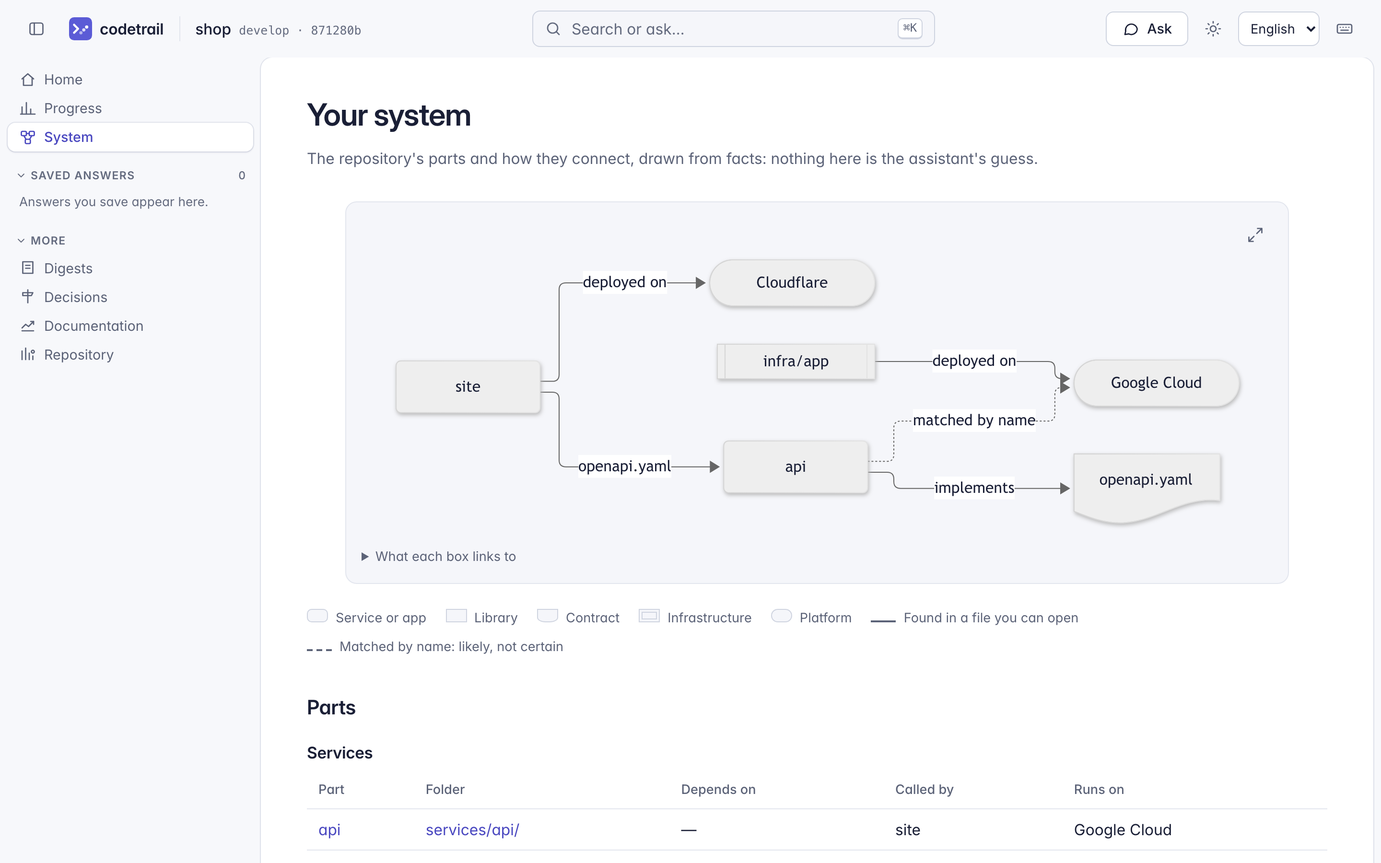
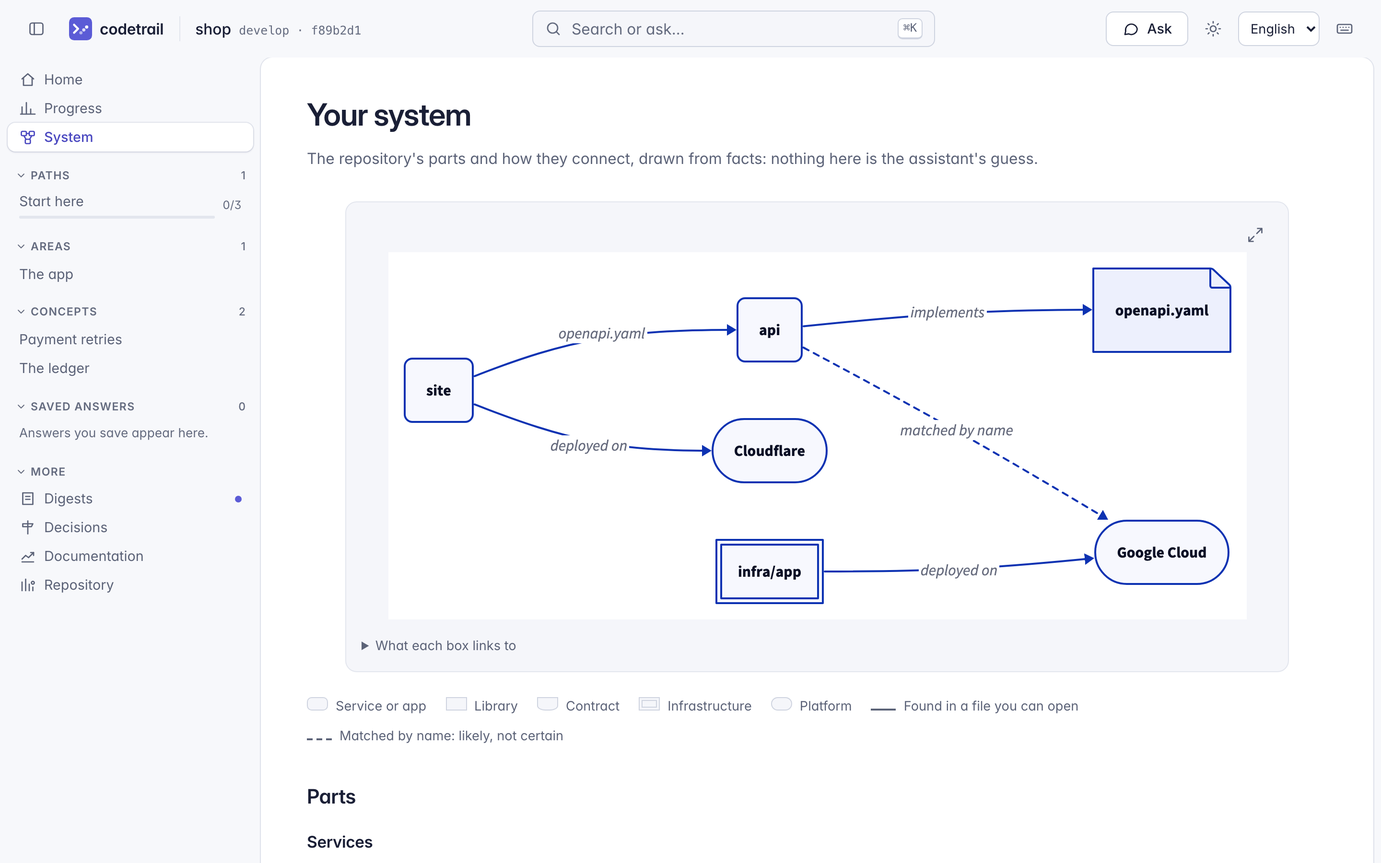
docs(docs): describe D2 in the design, checklist and README, and retake the system shot
What: the design (sections 4.4, 7.1, 7.4, 12, 16.5 and 17.4, and the
test plan) describes diagrams written in D2 and drawn in the worker
with its own policy, and the page's policy without inline styles;
brainstorm decision 9 points to ADR 0016; the security checklist's
Rendering item covers D2 labels, generated keys and the worker's
policy; the README's acknowledgement names D2 alone; the changelog
says every diagram changed, under Changed and Security; ADR 0016's
changes required are all ticked; the README's System page screenshot
is retaken from the small example repository, with the D2 drawing.

Why: ADR 0016, accepted, requires these changes, and the founder
asked for the diagrams, READMEs and docs to be finished.

Alternatives considered: leaving decision 9's text as written (it
records the brainstorm; a pointer keeps the record and the current
choice); keeping the old screenshot (it showed Mermaid's drawing).

Risks: none; documentation only. The checklist change is a rule the
security review reads from origin/develop once pushed.

Agent and model: Claude Code, Claude Opus 5.5 (claude-opus-5-5)

diff --git a/docs/design/2026-10-05-codetrail-design.md b/docs/design/2026-10-05-codetrail-design.md
@@ -209,7 +209,7 @@ checks: [...]                         # section 8.2
 At large scale, an index from facts to pages in SQLite, rebuilt from front matter, would replace scanning the pages; it isn't built until a target needs it.
 
 ### 4.4 Diagrams
-A diagram is a named query over facts within a scope (for example the imports inside `services/api/app`, or the infrastructure resources and their references), rendered to Mermaid text by Codetrail. Above a node limit in configuration it rolls up to directories or packages, with counts on the edges, and links to drill down. Every node and edge links to its fact. Claude never writes Mermaid. The Mermaid Codetrail writes always parses: labels are escaped, a blank label falls back to the fact's path, and an arrow is labelled only when it has a label (a browser test parses every diagram kind, with hostile names, through the vendored Mermaid). A diagram that would draw nothing is refused when a page is checked and left out when a page is shown.
+A diagram is a named query over facts within a scope (for example the imports inside `services/api/app`, or the infrastructure resources and their references), rendered to D2 text by Codetrail ([ADR 0016](../adr/0016-draw-diagrams-with-d2.md)). Above a node limit in configuration it rolls up to directories or packages, with counts on the edges, and links to drill down. Every node and edge links to its fact. Claude never writes diagram code. The D2 Codetrail writes always compiles: node ids are generated (`n1`, `n2`, …), never built from names, labels are D2 double-quoted strings with `\`, `"` and `$` escaped and line breaks dropped, a blank label falls back to the fact's path, and an arrow is labelled only when it has a label. The page draws it with D2's WebAssembly build in a worker of its own and shows it as an image (section 7.4); a browser test draws every diagram kind, with hostile names, through that worker and checks every label comes back as written. A diagram that would draw nothing is refused when a page is checked and left out when a page is shown.
 
 ### 4.5 Not facts
 Commit history (read through `repo` for each update's range) and document bodies (ADRs, READMEs, design documents, which Claude reads when needed). An ADR's metadata (number, title, status, supersedes, path) is a fact, so documented rationale can link to it.
@@ -329,7 +329,7 @@ Every draft carries the call's `Usage`. Each provider's adapter is the only code
 ## 7. The page and the bridge
 
 ### 7.1 The page
-Server-rendered with FastAPI and Jinja2, served by uvicorn; Markdown rendered on the server by markdown-it-py with raw HTML disabled; front matter read with PyYAML's `safe_load`; Mermaid vendored at a pinned version ([ADR 0004](../adr/0004-server-rendered-page-stack.md)). A few plain JavaScript modules handle streamed answers, Mermaid, the update dialog, search, shortcuts and the Ask panel (section 16.5); there are no inline scripts.
+Server-rendered with FastAPI and Jinja2, served by uvicorn; Markdown rendered on the server by markdown-it-py with raw HTML disabled; front matter read with PyYAML's `safe_load` ([ADR 0004](../adr/0004-server-rendered-page-stack.md)); D2's WebAssembly build vendored at a pinned version and run in a worker ([ADR 0016](../adr/0016-draw-diagrams-with-d2.md)). A few plain JavaScript modules handle streamed answers, diagrams, the update dialog, search, shortcuts and the Ask panel (section 16.5); there are no inline scripts.
 
 | Route | Shows or does |
 |---|---|
@@ -369,7 +369,7 @@ Server-rendered with FastAPI and Jinja2, served by uvicorn; Markdown rendered on
 | Another local web server receiving the session cookie | Browsers send a cookie to every port of a host (RFC 6265), so a server on another 127.0.0.1 port that the reader visits receives it. The session ends after `server.session_minutes` (480 by default) and when `serve` stops. Such a server could also start paid work: an update or a question. That is bounded: an update has a total budget (`generation.max_budget_usd_per_update`), updates from the page wait `server.update_cooldown_seconds` after the last one, one question runs at a time with its own budget, and grading runs one at a time, `learn.grading_cooldown_seconds` apart, with a budget of `learn.max_budget_usd` per answer. Accepted on that basis; revisit with a unique `*.localhost` host name if it proves insufficient. |
 | Other websites reading or driving the page | `serve` opens the browser at `/login?code=…`; the code is single-use and expires after `server.login_code_ttl_seconds`. It is exchanged for an `HttpOnly`, `SameSite=Strict` session cookie and removed from the URL. Every route except `/login` requires the session. Sessions live in memory and end when `serve` stops. |
 | Cross-site request forgery | Every `POST` needs an `Origin` equal to the served origin and an `X-Codetrail-Token` header matching the per-session token, which the page reads from a `<meta>` tag. Tokens come from `secrets.token_urlsafe(32)`. |
-| Script injection through repository content or Claude's output | Jinja2 autoescaping; Markdown with raw HTML disabled; only `http(s)` and relative links (markdown-it-py's link validation drops `javascript:`, `data:` and others); Mermaid labels escaped and Mermaid's `securityLevel: "strict"`; a CSP of `default-src 'self'; script-src 'self'; style-src 'self' 'unsafe-inline'; img-src 'self' data:; connect-src 'self'; frame-ancestors 'none'; base-uri 'none'; form-action 'self'` (inline styles only because Mermaid injects `<style>` into its SVGs); `X-Content-Type-Options: nosniff`, `Referrer-Policy: no-referrer`, `X-Frame-Options: DENY`, `Cross-Origin-Resource-Policy: same-origin`; and `Cache-Control: no-store` on every response outside `/static/`, refusals included, unless its route sets its own, so the write token in each page's `<meta>` tag and the guide's content never stay in the browser's disk cache (ASVS v5.0.0 14.3.2). Static files keep `no-cache` (section 16.5). |
+| Script injection through repository content or Claude's output | Jinja2 autoescaping; Markdown with raw HTML disabled; only `http(s)` and relative links (markdown-it-py's link validation drops `javascript:`, `data:` and others); D2 labels written as escaped double-quoted strings, and D2 keys always generated ids; a CSP of `default-src 'self'; script-src 'self'; style-src 'self'; img-src 'self' data:; connect-src 'self'; frame-ancestors 'none'; base-uri 'none'; form-action 'self'`, with no inline styles or scripts; D2's worker (`/static/js/d2-worker.js`) alone gets its own CSP, `default-src 'none'; script-src <its loader's URL> 'unsafe-eval' 'wasm-unsafe-eval'; connect-src <the wasm file's URL>`, at the `Host` already checked, because D2's layout evaluates JavaScript: it has no DOM and no network but its wasm file, and the page shows what it returns only as an `<img>`, where an SVG can't run script or follow links; `X-Content-Type-Options: nosniff`, `Referrer-Policy: no-referrer`, `X-Frame-Options: DENY`, `Cross-Origin-Resource-Policy: same-origin`; and `Cache-Control: no-store` on every response outside `/static/`, refusals included, unless its route sets its own, so the write token in each page's `<meta>` tag and the guide's content never stay in the browser's disk cache (ASVS v5.0.0 14.3.2). Static files keep `no-cache` (section 16.5). |
 | Another site, or a server on another 127.0.0.1 port, timing or driving the page (for example probing search) | A request whose `Sec-Fetch-Site` is anything but `same-origin` or `none` (the address bar) is refused, on every route but `/static/`. |
 | Prompt injection through repository content | Claude has read-only tools over `source/` and no network; every `@` in a prompt becomes a fullwidth `＠`, because Claude Code attaches the file an `@path` names before any tool call (a probe proved it); documented rationale is verified; grading has no tools at all; output is rendered inertly as above. |
 | Running up cost | An estimate before every paid action, and from the page an update only with a fresh estimate id, as the reader's consent (section 15.4); the update budget, the update cooldown, one question in flight, `max_turns`, token limits for `codex` and `local`, and question length limits. |
@@ -545,7 +545,7 @@ Test first, always (decision 12). Suites in `tests/unit`, `tests/integration`, `
 - **Generation:** validation of documented quotes, fact links and diagram placeholders; the retry; the budget and ranking; all-or-nothing on interruption; affected and "sources changed" detection.
 - **The real adapters:** `claude_code` and `codex` run against fake programs (small scripts that replay recorded streams and record their arguments, environment and stdin); `local` runs against a fake endpoint (httpx's mock transport). Tests assert the read-only flags, the allowlisted environment (no key in subscription mode), stdin prompts, limits, stopping at a token limit, and usage parsing. An opt-in `just test-live` suite runs each installed provider on a fixture repository; CI skips it.
 - **Estimates:** medians from history, starting values, the update's expected and maximum, refusal of an update without a fresh estimate id, and the command line's question and `--yes`.
-- **API tests** (FastAPI's test client): every refusal in section 7.4 (wrong `Host`; missing or wrong `Origin`; no session; bad token; reused or expired login code; non-loopback configuration; unknown language or page id); the security headers on every response; `<script>`, `javascript:` links and hostile Mermaid labels rendered inert; streaming, cancellation and saving answers.
+- **API tests** (FastAPI's test client): every refusal in section 7.4 (wrong `Host`; missing or wrong `Origin`; no session; bad token; reused or expired login code; non-loopback configuration; unknown language or page id); the security headers on every response; `<script>`, `javascript:` links and hostile diagram labels rendered inert; the D2 worker's own policy, and no other path's; streaming, cancellation and saving answers.
 - **Learning:** every state transition, including *learned* → *stale* → *learned* through changed checks only; grading with pass, fail and a malformed verdict.
 - **Interface languages:** every catalog against English (keys, placeholders, plural forms); every catalog compiles, to the committed `.mo`; CI fails if the extracted template is out of date; `dir="rtl"` from the test catalog.
 - **End to end:** a fixture repository, `update` with the fake Claude, then the page through the test client: the behind signal, a page with its diagram, a graded check, and a source view refusing an excluded file.
@@ -557,13 +557,14 @@ Recipes: `just test-quick` (unit, API and the hooks' tests, in parallel, run by 
 
 | Dependency | Use | Covered by |
 |---|---|---|
-| Python, uv, FastAPI (with pydantic), SQLite, tree-sitter and its grammars, Mermaid | Core stack | Decision 9 |
+| Python, uv, FastAPI (with pydantic), SQLite, tree-sitter and its grammars | Core stack | Decision 9 |
 | httpx at runtime | The `local` provider's client | ADR 0006 |
 | Claude Code, Codex, Ollama or LM Studio, as the reader's own installed programs (not Python dependencies) | Assistant providers | ADR 0006 |
 | mise, just, lefthook, gitleaks (as a hook), git-flow-next, Node and pnpm for commitlint, ruff, mypy, pytest | Engineering setup | Decision 11 |
 | `pathspec` | Gitignore-style matching | ADR 0001 |
 | gitleaks at runtime | Content scanning on every update | ADR 0002 |
-| Jinja2, markdown-it-py, PyYAML, uvicorn; Mermaid vendored | The page and the guide's front matter | ADR 0004 |
+| Jinja2, markdown-it-py, PyYAML, uvicorn | The page and the guide's front matter | ADR 0004 |
+| D2: its WebAssembly build vendored, and the `d2` binary pinned in mise for the documentation's diagrams | Every diagram | ADR 0016 |
 | Babel (development only) | Extracting and compiling catalogs | ADR 0005; ADR 0013 (proposed) |
 | Inter, bundled as font files | The page's typeface | ADR 0007 |
 | Noto Sans Arabic, bundled as a font file | Arabic letters, which Inter lacks | ADR 0014 (proposed) |
@@ -753,7 +754,7 @@ Empty states invite rather than apologize ("Ask a question from any page and sav
 ### 16.5 Code layout
 - `templates/layout/`: the shell (`shell.html`, `header.html`, `sidebar.html`, `outline.html`, `ask_panel.html`, `palette.html`, `shortcuts.html`); every page template fills its content block. New pages: `progress.html`, `answers.html`, `search.html`.
 - `static/css/`: `tokens.css`, `base.css`, `layout.css`, `components.css`, `content.css` (guide pages, callouts, diagrams, code) and `print.css`, replacing `page.css`.
-- `static/js/`: plain ES modules, no bundler, loaded from `main.js` as `<script type="module">` (allowed by `script-src 'self'`): `api.js` (the token header, fetch), `ask.js`, `palette.js`, `shortcuts.js`, `update.js`, `learning.js`, `outline.js`, `theme.js`, `diagram.js`. They replace `page.js`, keeping its behaviour (streamed answers, grading, the estimate dialog, marking read, Mermaid).
+- `static/js/`: plain ES modules, no bundler, loaded from `main.js` as `<script type="module">` (allowed by `script-src 'self'`): `api.js` (the token header, fetch), `ask.js`, `palette.js`, `shortcuts.js`, `update.js`, `learning.js`, `outline.js`, `theme.js`, `diagram.js` and `d2.js`, which hands diagrams to the worker `d2-worker.js`. They replace `page.js`, keeping its behaviour (streamed answers, grading, the estimate dialog, marking read, diagrams).
 - `static/brand/`: the mark and favicon. `static/vendor/inter/` and `static/vendor/noto-sans-arabic/`: the font files, their licences and `VERSION` files.
 - Static files are sent with `Cache-Control: no-cache`, so the browser revalidates them on every load and an upgraded Codetrail never shows its pages with the previous version's styles or script.
 - `src/codetrail/search.py`: the index and its queries; the routes live with the other page routes in `web`.
@@ -823,8 +824,8 @@ A client that calls through a contract a service implements is drawn with one ar
 
 ### 17.4 The system diagram
 - **Placeholders:** `{{diagram system}}` (the whole system) and `{{diagram system focus=<folder>}}` (one part and its direct neighbours). Page checks accept them only when they would draw something; the answer's list of available diagrams puts the system diagram first; the plan and page prompts describe them.
-- **Drawing:** a Mermaid flowchart, left to right. Services and apps are rounded boxes, libraries plain boxes, contracts a document shape, infrastructure a double-bordered box, platforms a stadium. `depends_on` is a plain arrow; a client's call goes to the service behind the contract, labelled with the contract, when one service implements it, and to the contract when several do, so arrows never grow as callers times services; `deployed_on` points at the platform or infrastructure. Explicit arrows are solid; matched ones dashed and labelled "matched by name". A legend under the diagram, in the interface language, explains shapes and lines. Every box links to its part's fact; "Why each arrow is there", under the diagram, lists every arrow with its evidence (a link to the file and line, or the rule and both names). Labels use the escaping and fallbacks of section 4.4, node ids are always generated (`n1`, `n2`, …), never built from names, and the browser test that parses every diagram kind with Mermaid covers every shape the system diagram uses and its dashed, labelled arrows, with hostile names.
-- **Large repositories:** above `diagrams.max_nodes`, libraries roll up into their parent folder ("packages/ (12 libraries)") with counted arrows; services, apps, contracts, infrastructure and platforms never roll up. If those alone exceed the limit, they group by top-level folder, and past that the largest groups stay and the rest fold into one "other parts" box; the system page lists every part. Labels drop control and format characters, which Mermaid's shape syntax refuses.
+- **Drawing:** a D2 diagram, left to right. Services and apps are rounded boxes, libraries plain boxes, contracts a page shape, infrastructure a double-bordered box, platforms a stadium. `depends_on` is a plain arrow; a client's call goes to the service behind the contract, labelled with the contract, when one service implements it, and to the contract when several do, so arrows never grow as callers times services; `deployed_on` points at the platform or infrastructure. Explicit arrows are solid; matched ones dashed and labelled "matched by name". A legend under the diagram, in the interface language, explains shapes and lines. Every box links to its part's fact; "Why each arrow is there", under the diagram, lists every arrow with its evidence (a link to the file and line, or the rule and both names). Labels use the escaping and fallbacks of section 4.4, node ids are always generated (`n1`, `n2`, …), never built from names, and the browser test that draws every diagram kind with D2 covers every shape the system diagram uses and its dashed, labelled arrows, with hostile names.
+- **Large repositories:** above `diagrams.max_nodes`, libraries roll up into their parent folder ("packages/ (12 libraries)") with counted arrows; services, apps, contracts, infrastructure and platforms never roll up. If those alone exceed the limit, they group by top-level folder, and past that the largest groups stay and the rest fold into one "other parts" box; the system page lists every part. Labels drop control and format characters, which no reader can see and which could end D2's quoted string.
 - **Where it appears:** a "Your system" card on the home page, above the areas, linking to a new `/system` page: the diagram at full width, then every part grouped by kind with its folder, what it depends on, what calls it and where it runs, and every connection with its evidence. The sidebar lists **System** under Home and Progress; the shortcut is **G** then **Y**. Area pages show the focused system diagram for their folder, drawn from facts with no page rewritten. Answers can place it. A repository with no parts has no card and no page.
 
 ### 17.5 Configuration
@@ -833,7 +834,7 @@ The extractor names `typescript` and `github_actions` join the target's `extract
 ### 17.6 Testing
 - **Extractors:** each against fixture files: relative, `index`, `tsconfig` paths, workspace and bare imports, `import()` and `require`; Astro code blocks and scripts, pages, endpoints and `[slug]` routes; JSON with comments; Wrangler bindings without `vars` values; unparseable, minified and declaration files; workflows with every deploy form, a `working-directory` at step and job level, and `env` and `secrets.*` that must not appear in facts.
 - **System pass:** one fixture per rule, explicit and matched; files belonging to the innermost part; a repository with no parts; hostile names.
-- **Diagrams:** the system and focused diagrams, roll-up, the evidence list, the Mermaid parse test; the system page, home card and area pages in API and browser tests; the accessibility scan of the system page.
+- **Diagrams:** the system and focused diagrams, roll-up, the evidence list, the D2 drawing test; the system page, home card and area pages in API and browser tests; the accessibility scan of the system page.
 - **End to end:** a mixed fixture repository (a Python service with routes, a Swift package with a copied contract, an Astro site with a Worker, an OpenAPI contract, Terraform with a Cloud Run service named after the service, and a GitHub Actions deploy job), updated with the fake assistant; the system page shows the expected parts and arrows, solid and dashed.
 
 ### 17.7 Delivery

diff --git a/docs/design/brainstorm-decisions.md b/docs/design/brainstorm-decisions.md
@@ -33,7 +33,7 @@ A generic "chat with the repo" (RAG over the code) is not worth building: Claude
 | 6 | When the guide updates | **On demand, plus a free "you're behind" signal.** The founder runs an update from the page; meanwhile the page shows, from git alone, how many merges landed since the last update and which areas they touched. | The signal costs nothing; Claude is called only when the founder decides an update is worth it. Rejected: after every merge (noisy, costly with agents merging often), on a schedule. |
 | 7 | Language (revised 5 October 2026) | **English-first interface that can switch language; English guide; the bridge answers in the reader's language.** All interface text (navigation, buttons, the "you're behind" signal, errors, check prompts) comes from one gettext catalog per language (`.po` files), read at runtime by Python's standard `gettext` module, with English as the source and the fallback. Adding a language means adding a catalog, with no code change. The reader picks a language in the page, the choice is stored in the learning state, and the default comes from configuration. Each catalog declares its writing direction; the page sets `lang` and `dir` on the interface and marks English content `lang="en" dir="ltr"`, so right-to-left languages such as Arabic work. Generated pages, digests and checks stay English. Live Claude output (bridge answers, feedback on checks) is in the reader's language, and saved answers record their language in front matter. A test fails when a catalog is missing a key, placeholder or plural form compared with English. | Languages will be added over time, and the interface should never need a code change for one. gettext handles plural rules per language (Arabic has six forms) and is Python's standard mechanism; translation tools read `.po` files. Keeping generated content in English keeps the cost of one guide per repository, and quotes need no translation. Babel, needed at development time to extract strings and compile catalogs, is outside the stack in decision 9 and needs a proposed ADR before it is added; compiled `.mo` files are generated by a `just` recipe and not committed. Rejected: an Arabic-first interface; JSON or TOML catalogs with a custom lookup (plural rules and tooling would be hand-written); translation in the browser with a JavaScript library (adds a JavaScript toolchain, and server-side text would need a second mechanism); generated content in each reader's language (multiplies the cost of generation and staleness tracking by the number of languages). |
 | 8 | Approach | **Hybrid: facts for structure, Claude for meaning.** Plug-in extractors parse the repository into a fact store. Diagrams are drawn from facts, never by Claude. Claude writes concept pages, paths, digests and checks from the facts and diffs, and may read files, read-only, for the "why". | Learning wrong things is costly, so structure must be grounded; the "why" needs Claude. Facts also tell an update exactly which pages to rewrite, and each page records the facts and files it was built from, which gives staleness tracking. Rejected: agent-first (Claude re-explores each time: invented diagram edges, costlier updates, weak staleness) and facts only (no explanations, misses need C). |
-| 9 | Stack | **Python with uv; FastAPI serving the page and the bridge; SQLite for facts and learning state; the knowledge base as Markdown files with front matter in their own git repository; tree-sitter for parsing; the Claude Agent SDK for Python for generation and the bridge; Mermaid rendered in the browser.** | All familiar to the founder from their other projects. The TypeScript equivalent would work but offers nothing extra here. |
+| 9 | Stack | **Python with uv; FastAPI serving the page and the bridge; SQLite for facts and learning state; the knowledge base as Markdown files with front matter in their own git repository; tree-sitter for parsing; the Claude Agent SDK for Python for generation and the bridge; Mermaid rendered in the browser** (diagrams are D2 since [ADR 0016](../adr/0016-draw-diagrams-with-d2.md)). | All familiar to the founder from their other projects. The TypeScript equivalent would work but offers nothing extra here. |
 | 10 | Where Codetrail lives | **This repository,** developed locally, with nothing in the repositories it teaches. | The founder wants no Codetrail code in the repositories it teaches. Local rather than a cloud environment because Codetrail reads a local checkout, runs Claude Code under the founder's login, and is tested in the founder's own browser. |
 | 11 | Engineering setup | **The same as the founder's other projects,** trimmed to what a Python tool uses: mise pins the tools (Python, uv, just, lefthook, gitleaks, git-flow-next, and Node with pnpm for commitlint); `just` runs everything (`just setup`, `just ci`, `just lint`, `just typecheck`, `just test`, `just test-quick`, `just check-repo`); lefthook runs the git hooks through small scripts in `tools/git-hooks/` (pre-commit: gitleaks, file rules, ruff, justfile format; commit-msg: commitlint with the required "Why" section; pre-push: the agent push guard first, then the quick tests); git-flow-next with `main` and `develop` and local-only finishes; ruff for lint and format, mypy strict, pytest; Conventional Commits with the What/Why/Alternatives body; ADRs in `docs/adr/`; a security checklist in `docs/security/`; `.claude/` with the deny rules, the push and secret-read hooks and a security-reviewer agent; `.codex/rules/`; GitHub Actions CI on Linux running `just ci`; Dependabot security updates. | The founder already knows and trusts this setup; one way of working across the founder's repositories. The hook scripts from the founder's earlier projects and their tests are the founder's own code and are copied and adapted rather than rewritten. Left out until needed: release tooling (git-cliff, version recipes), which comes with Codetrail's first release. |
 | 12 | Development method | **Test-driven.** Every behaviour starts as a failing test. Suites: unit tests for extractors, the fact store, staleness and the bridge's guards; integration tests for an update run, with Claude replaced by a fake; API tests for the page and bridge, including requests that must be refused (wrong `Host` or `Origin`, missing token, write tools); an end-to-end smoke test from a small fixture repository to a rendered guide. Claude sits behind an interface with one real adapter (the Agent SDK) and a fake for tests, as the plug-and-play rule requires. | Codetrail's output is something the founder learns from, so wrong behaviour is costly; and a bridge that can drive Claude needs its refusals tested, not assumed. |

diff --git a/docs/adr/0016-draw-diagrams-with-d2.md b/docs/adr/0016-draw-diagrams-with-d2.md
@@ -60,16 +60,16 @@ Option C. The README's and docs' diagrams are written in D2 in `docs/diagrams/` 
 - Revisit if D2's WebAssembly build stops needing `eval`, if a build without dagre's JavaScript appears, or if the first-diagram delay bothers readers.
 
 ## Changes required
-- [x] `.mise.toml`: the `d2` binary, pinned (spike, on `feature/d2-diagrams`).
-- [x] `justfile`: `just diagrams` renders `docs/diagrams/*.d2` to SVGs marked GENERATED (spike).
-- [x] `README.md`: its diagrams as committed SVGs (spike).
-- [x] `src/codetrail/web/static/vendor/d2/`: `d2.wasm` and `wasm_exec.js` from D2.js 0.1.33, with `VERSION` and the licences (spike).
-- [x] `src/codetrail/web/security.py`: the worker's own policy (spike).
-- [x] `web/diagrams.py`, `diagram.js` and a worker: the system diagram in D2 (spike).
-- [ ] `web/diagrams.py`: every diagram kind in D2, then the Mermaid text, `vendor/mermaid.js` and its tests removed.
-- [ ] `justfile` and CI: a check that the committed SVGs match their sources.
-- [ ] Design sections 4.4, 7.1, 7.4, 12 and 17.4, brainstorm decision 9 and the README's acknowledgements: D2 instead of Mermaid.
-- [ ] `docs/security/review-checklist.md`, the Rendering item: D2 labels as double-quoted strings with `\`, `"` and `$` escaped, D2 keys generated, and the worker's policy served only for `/static/js/d2-worker.js`, after the Host check.
-- [ ] `src/codetrail/web/security.py`: the page's policy without `'unsafe-inline'` styles, which only Mermaid needed (no template, script or Python code writes inline styles).
+- [x] `.mise.toml`: the `d2` binary, pinned.
+- [x] `justfile`: `just diagrams` renders `docs/diagrams/*.d2` to SVGs marked GENERATED.
+- [x] `README.md`: its diagrams as committed SVGs.
+- [x] `src/codetrail/web/static/vendor/d2/`: `d2.wasm` and `wasm_exec.js` from D2.js 0.1.33, with `VERSION` and the licences.
+- [x] `src/codetrail/web/security.py`: the worker's own policy.
+- [x] `web/diagrams.py`, `diagram.js` and a worker: the system diagram in D2.
+- [x] `web/diagrams.py`: every diagram kind in D2, then the Mermaid text, `vendor/mermaid.js` and its tests removed.
+- [x] `justfile` and CI: a check that the committed SVGs match their sources.
+- [x] Design sections 4.4, 7.1, 7.4, 12 and 17.4, brainstorm decision 9 and the README's acknowledgements: D2 instead of Mermaid.
+- [x] `docs/security/review-checklist.md`, the Rendering item: D2 labels as double-quoted strings with `\`, `"` and `$` escaped, D2 keys generated, and the worker's policy served only for `/static/js/d2-worker.js`, after the Host check.
+- [x] `src/codetrail/web/security.py`: the page's policy without `'unsafe-inline'` styles, which only Mermaid needed (no template, script or Python code writes inline styles).
 - [x] ADR 0004: status `superseded by 0016` for its Mermaid part.
 - [x] The founder accepted this ADR on 21 October 2026.

diff --git a/README.md b/README.md
@@ -256,7 +256,7 @@ Then `just ci` runs every check CI runs; `just lint`, `just format`, `just typec
 ## Credits
 
 - The page's typeface is [Inter](https://rsms.me/inter/) by Rasmus Andersson, under the SIL Open Font License 1.1 ([its licence](src/codetrail/web/static/vendor/inter/LICENSE.txt), [ADR 0007](docs/adr/0007-bundle-the-inter-typeface.md)). Arabic text is set in [Noto Sans Arabic](https://github.com/notofonts/arabic) by the Noto Project Authors, under the same licence ([its licence](src/codetrail/web/static/vendor/noto-sans-arabic/OFL.txt), [ADR 0014](docs/adr/0014-bundle-noto-sans-arabic.md), proposed).
-- The page's diagrams are drawn by [Mermaid](https://mermaid.js.org), under the MIT License ([ADR 0004](docs/adr/0004-server-rendered-page-stack.md)), except the system diagram, which, like this README's diagrams, is drawn by [D2](https://d2lang.com) by Terrastruct, under the Mozilla Public License 2.0; the page runs D2's WebAssembly build with Go's `wasm_exec.js`, under Go's BSD licence ([their licences](src/codetrail/web/static/vendor/d2/), [ADR 0016](docs/adr/0016-draw-diagrams-with-d2.md), proposed).
+- Diagrams, on the page and in this README, are drawn by [D2](https://d2lang.com) by Terrastruct, under the Mozilla Public License 2.0; the page runs D2's WebAssembly build with Go's `wasm_exec.js`, under Go's BSD licence ([their licences](src/codetrail/web/static/vendor/d2/), [ADR 0016](docs/adr/0016-draw-diagrams-with-d2.md)).
 - The browser tests check accessibility with [axe-core](https://github.com/dequelabs/axe-core) by Deque, under the Mozilla Public License 2.0; it is used by the tests only ([ADR 0008](docs/adr/0008-browser-tests-with-playwright.md)).
 
 ## License

diff --git a/docs/security/review-checklist.md b/docs/security/review-checklist.md
@@ -67,7 +67,7 @@ Check the current version of each before citing it; when a newer one exists, use
 - Session tokens and codes come from `secrets`, carry at least 128 bits, and are compared in constant time.
 - Input is checked at the boundary against an allowlist: language codes against installed catalogs, page and fact ids against the guide and the store, lengths limited.
 - Responses carry `Content-Security-Policy` (as in the design, with `frame-ancestors 'none'`), `X-Content-Type-Options: nosniff`, `Referrer-Policy: no-referrer` and `X-Frame-Options: DENY`.
-- Rendering: Jinja2 autoescaping on, Markdown with raw HTML off, only `http(s)` and relative links, Mermaid labels escaped and `securityLevel: "strict"`, no inline scripts.
+- Rendering: Jinja2 autoescaping on, Markdown with raw HTML off, only `http(s)` and relative links, no inline scripts or styles. Diagrams (ADR 0016): D2 labels are double-quoted strings with `\`, `"` and `$` escaped and line breaks dropped; D2 keys are generated ids, never names (D2's layout evaluates them); the D2 worker's own policy is served only for `/static/js/d2-worker.js`, after the `Host` check, allows only its loader and its wasm file, and is the only place `eval` is allowed; the page shows the worker's SVG only as an `<img>`.
 
 ### Input and injection (A05)
 - SQL is parameterised only; identifiers come from fixed code.

diff --git a/CHANGELOG.md b/CHANGELOG.md
@@ -5,7 +5,10 @@ Every notable change to Codetrail, newest first. The format follows [Keep a Chan
 ## [Unreleased]
 
 ### Changed
-- The system diagram, on the System page, the home and area pages, guide pages and answers, is drawn with D2: clearer layout, with each kind of part in its own shape as before. The first diagram on a page takes about a second to appear while the browser prepares D2. The README's diagrams are drawn with D2 too. This is a trial of [ADR 0016](docs/adr/0016-draw-diagrams-with-d2.md), proposed; the other diagrams still use Mermaid.
+- Every diagram (the system diagram, and the imports, dependencies and resources diagrams on area pages, guide pages and answers) is drawn with D2 instead of Mermaid, with a clearer layout and each kind of part in its own shape as before. The first diagram on a page takes about a second to appear while the browser prepares D2. The README's diagrams are drawn with D2 too ([ADR 0016](docs/adr/0016-draw-diagrams-with-d2.md)).
+
+### Security
+- The page's Content-Security-Policy no longer allows inline styles, which only Mermaid needed. D2's layout evaluates JavaScript, so it runs in a worker with its own policy, which can load nothing but its own two files and has no access to the page, and its drawing is shown as an image, which can't run script or follow links.
 
 ## [1.3.0] - 2026-10-18
 
